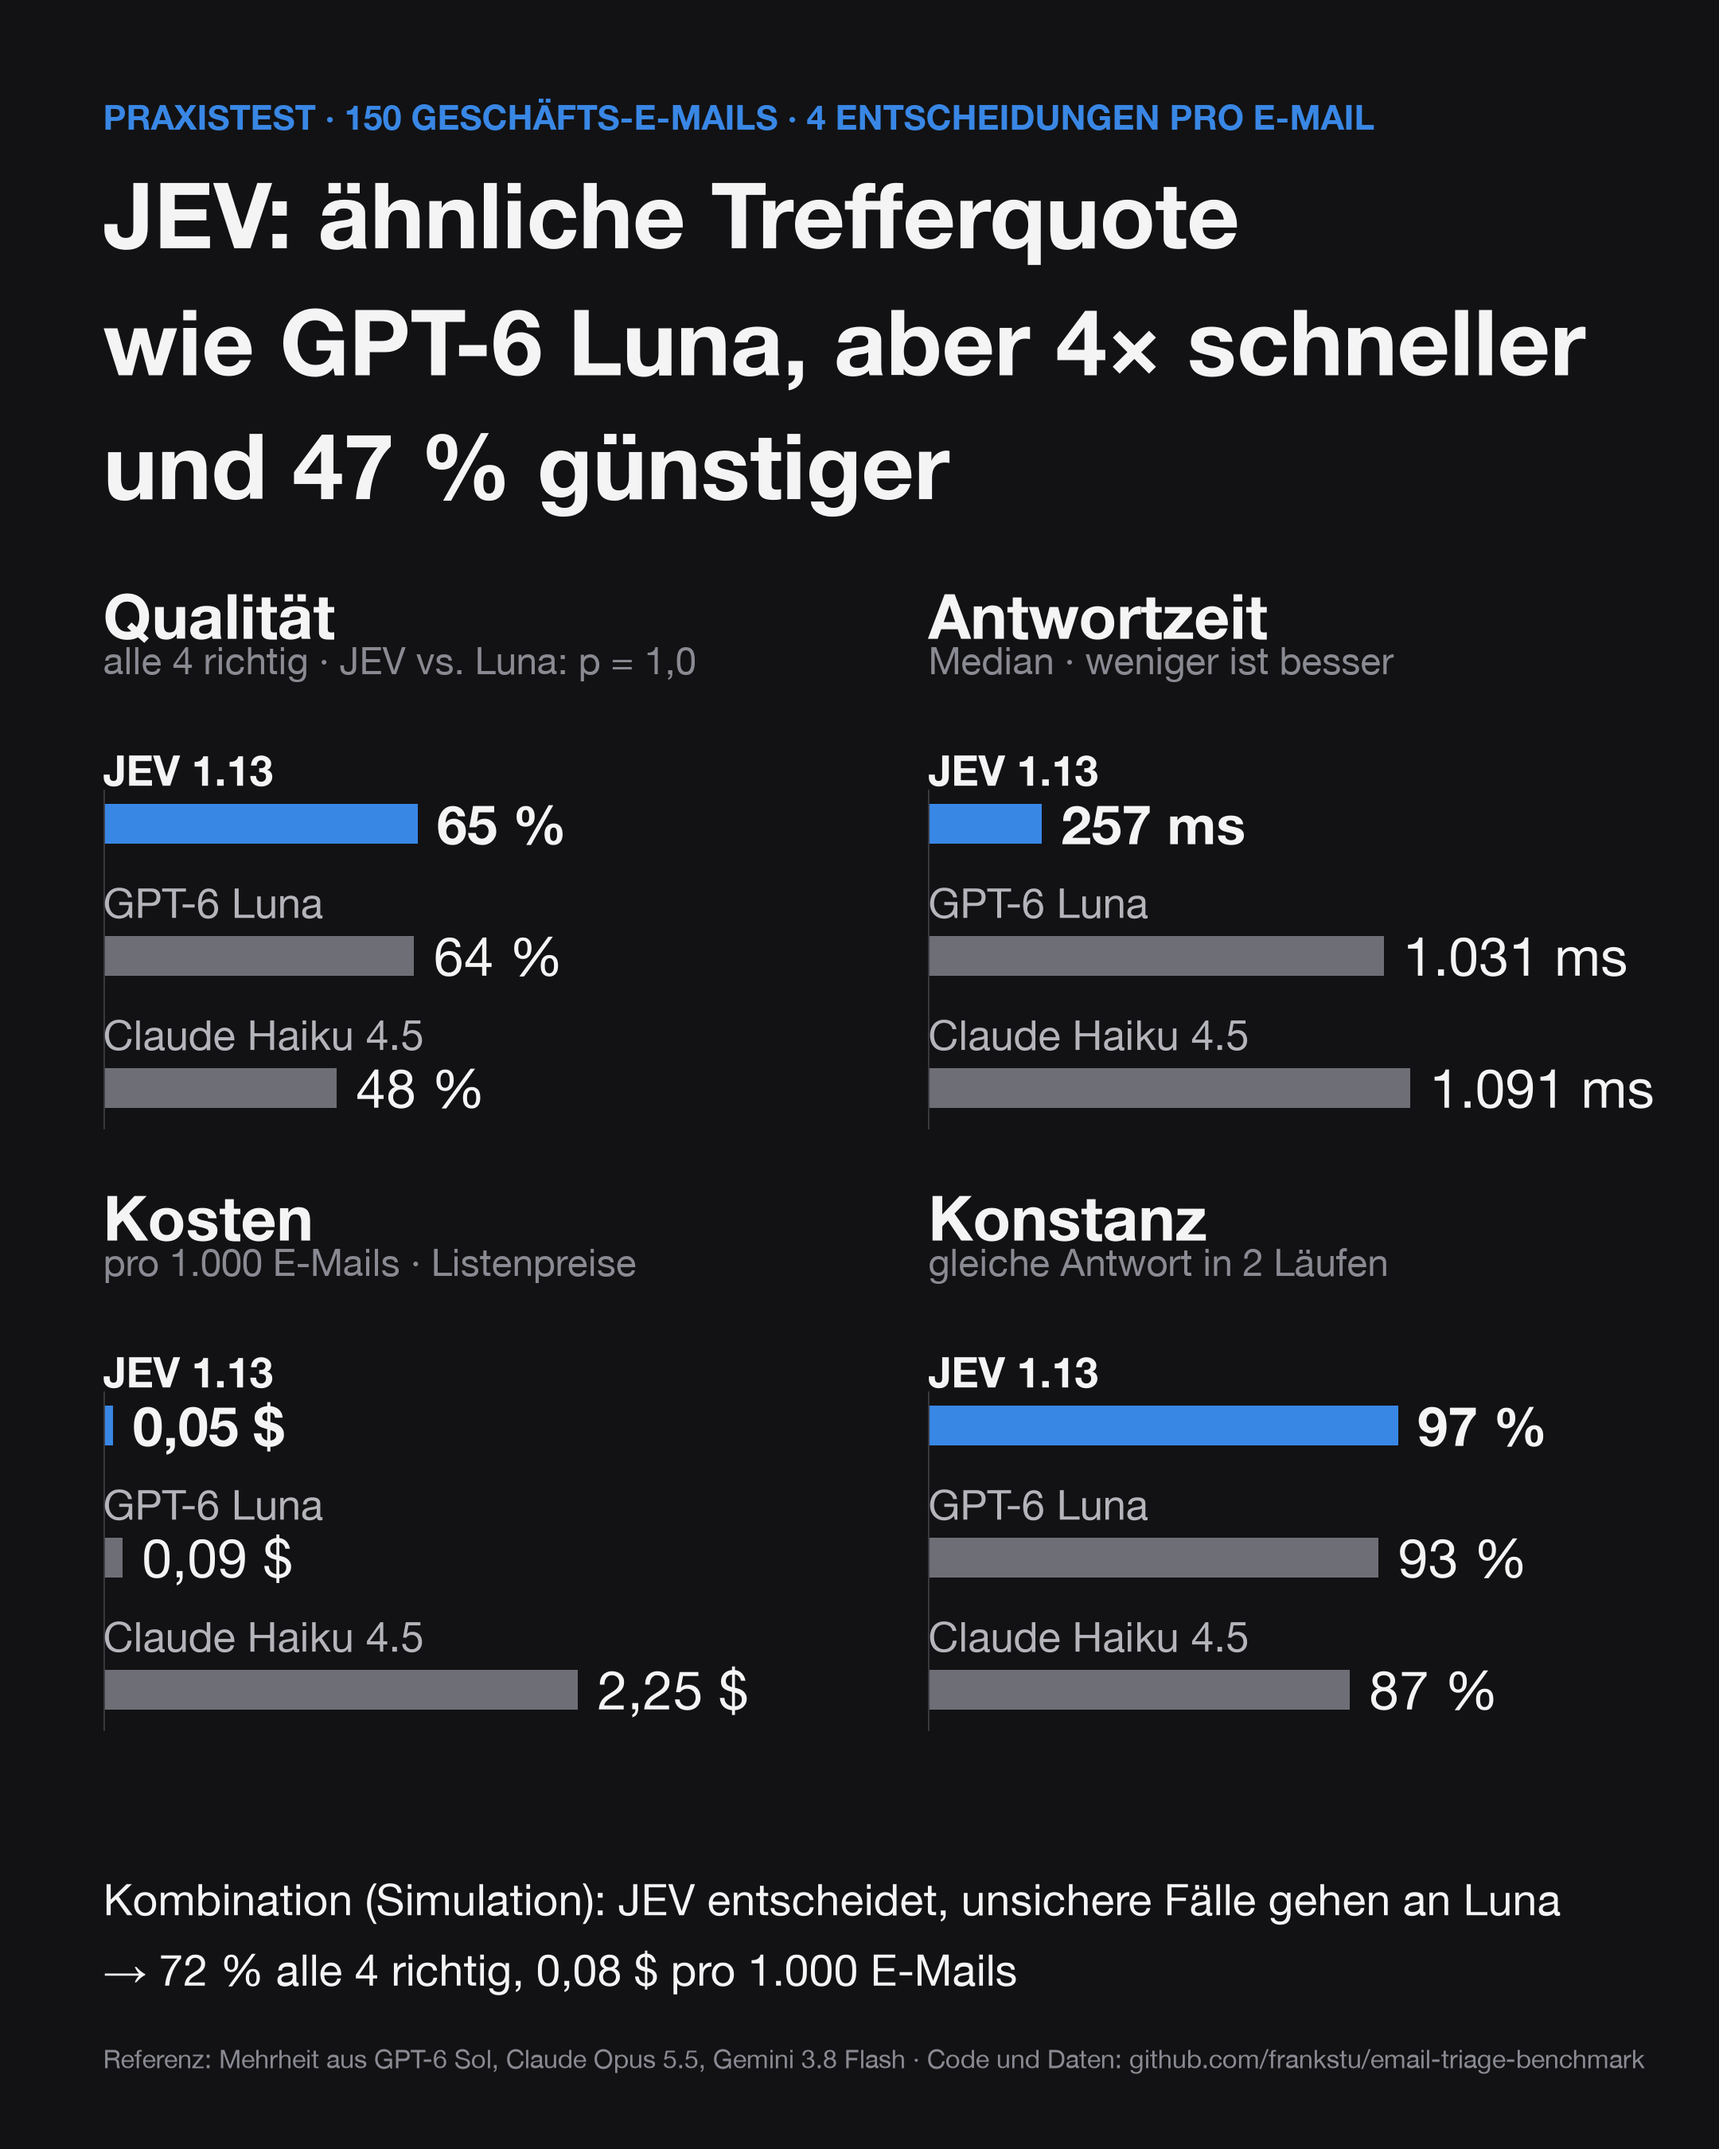
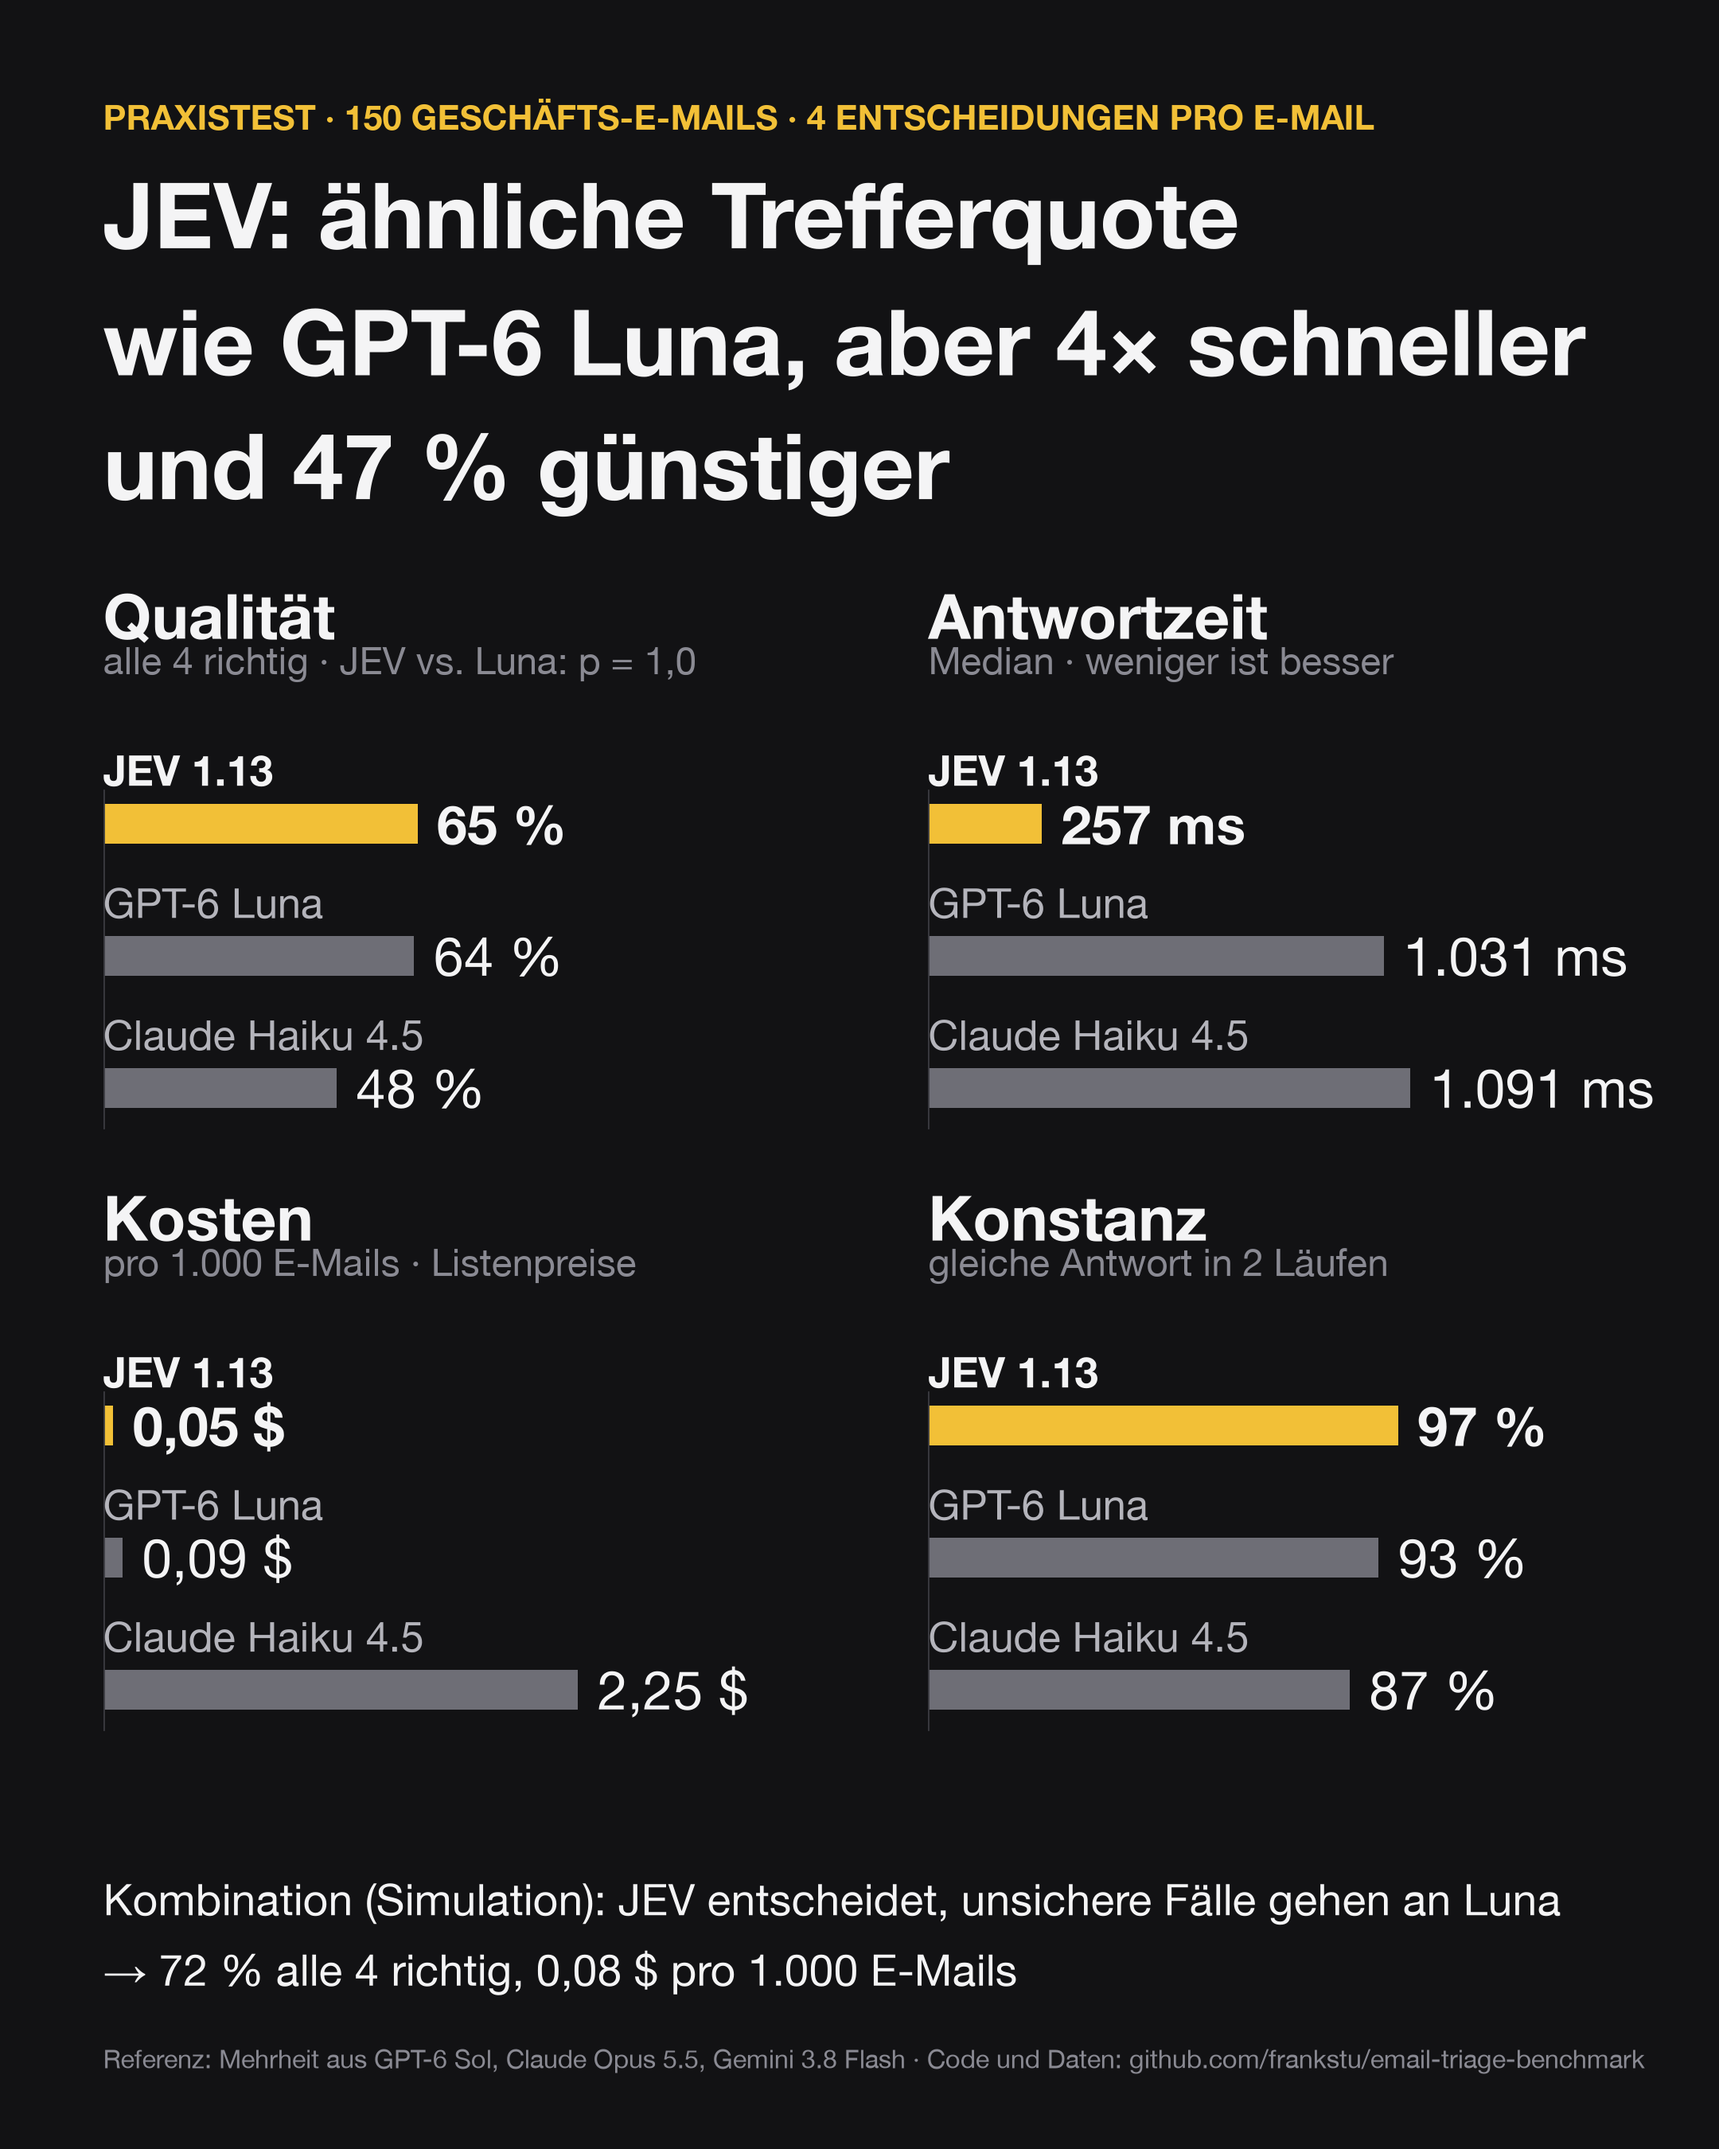
Dunkle Diagramme in Bernstein passend zum Blog; helle bleiben blau

diff --git a/scripts/charts.py b/scripts/charts.py
@@ -30,11 +30,12 @@ BENCH = Path("data/bench/results.jsonl")
 REPO = "github.com/frankstu/email-triage-benchmark"
 
 # Referenzpalette (dataviz): Akzent + Grau, Tinte und Linien in Text-Tokens.
-# "hell" für LinkedIn, "dunkel" passend zum Blog (Fläche wie dessen Karten).
+# "hell" für LinkedIn (Blau, auf Weiß gut lesbar),
+# "dunkel" passend zum Blog (Bernstein, Fläche wie dessen Karten).
 THEMES: dict[str, dict[str, str]] = {
     "hell": {"ACCENT": "#2a78d6", "DEEMPH": "#a9a79f", "SURFACE": "#fcfcfb", "INK": "#0b0b0b",
              "INK_2": "#52514e", "MUTED": "#898781", "GRID": "#e1e0d9", "BASELINE": "#c3c2b7", "suffix": ""},
-    "dunkel": {"ACCENT": "#3987e5", "DEEMPH": "#6e6e76", "SURFACE": "#121214", "INK": "#f4f4f5",
+    "dunkel": {"ACCENT": "#f2c037", "DEEMPH": "#6e6e76", "SURFACE": "#121214", "INK": "#f4f4f5",
                "INK_2": "#b4b4bb", "MUTED": "#8a8a93", "GRID": "#26262b", "BASELINE": "#3a3a40",
                "suffix": "-dunkel"},
 }
